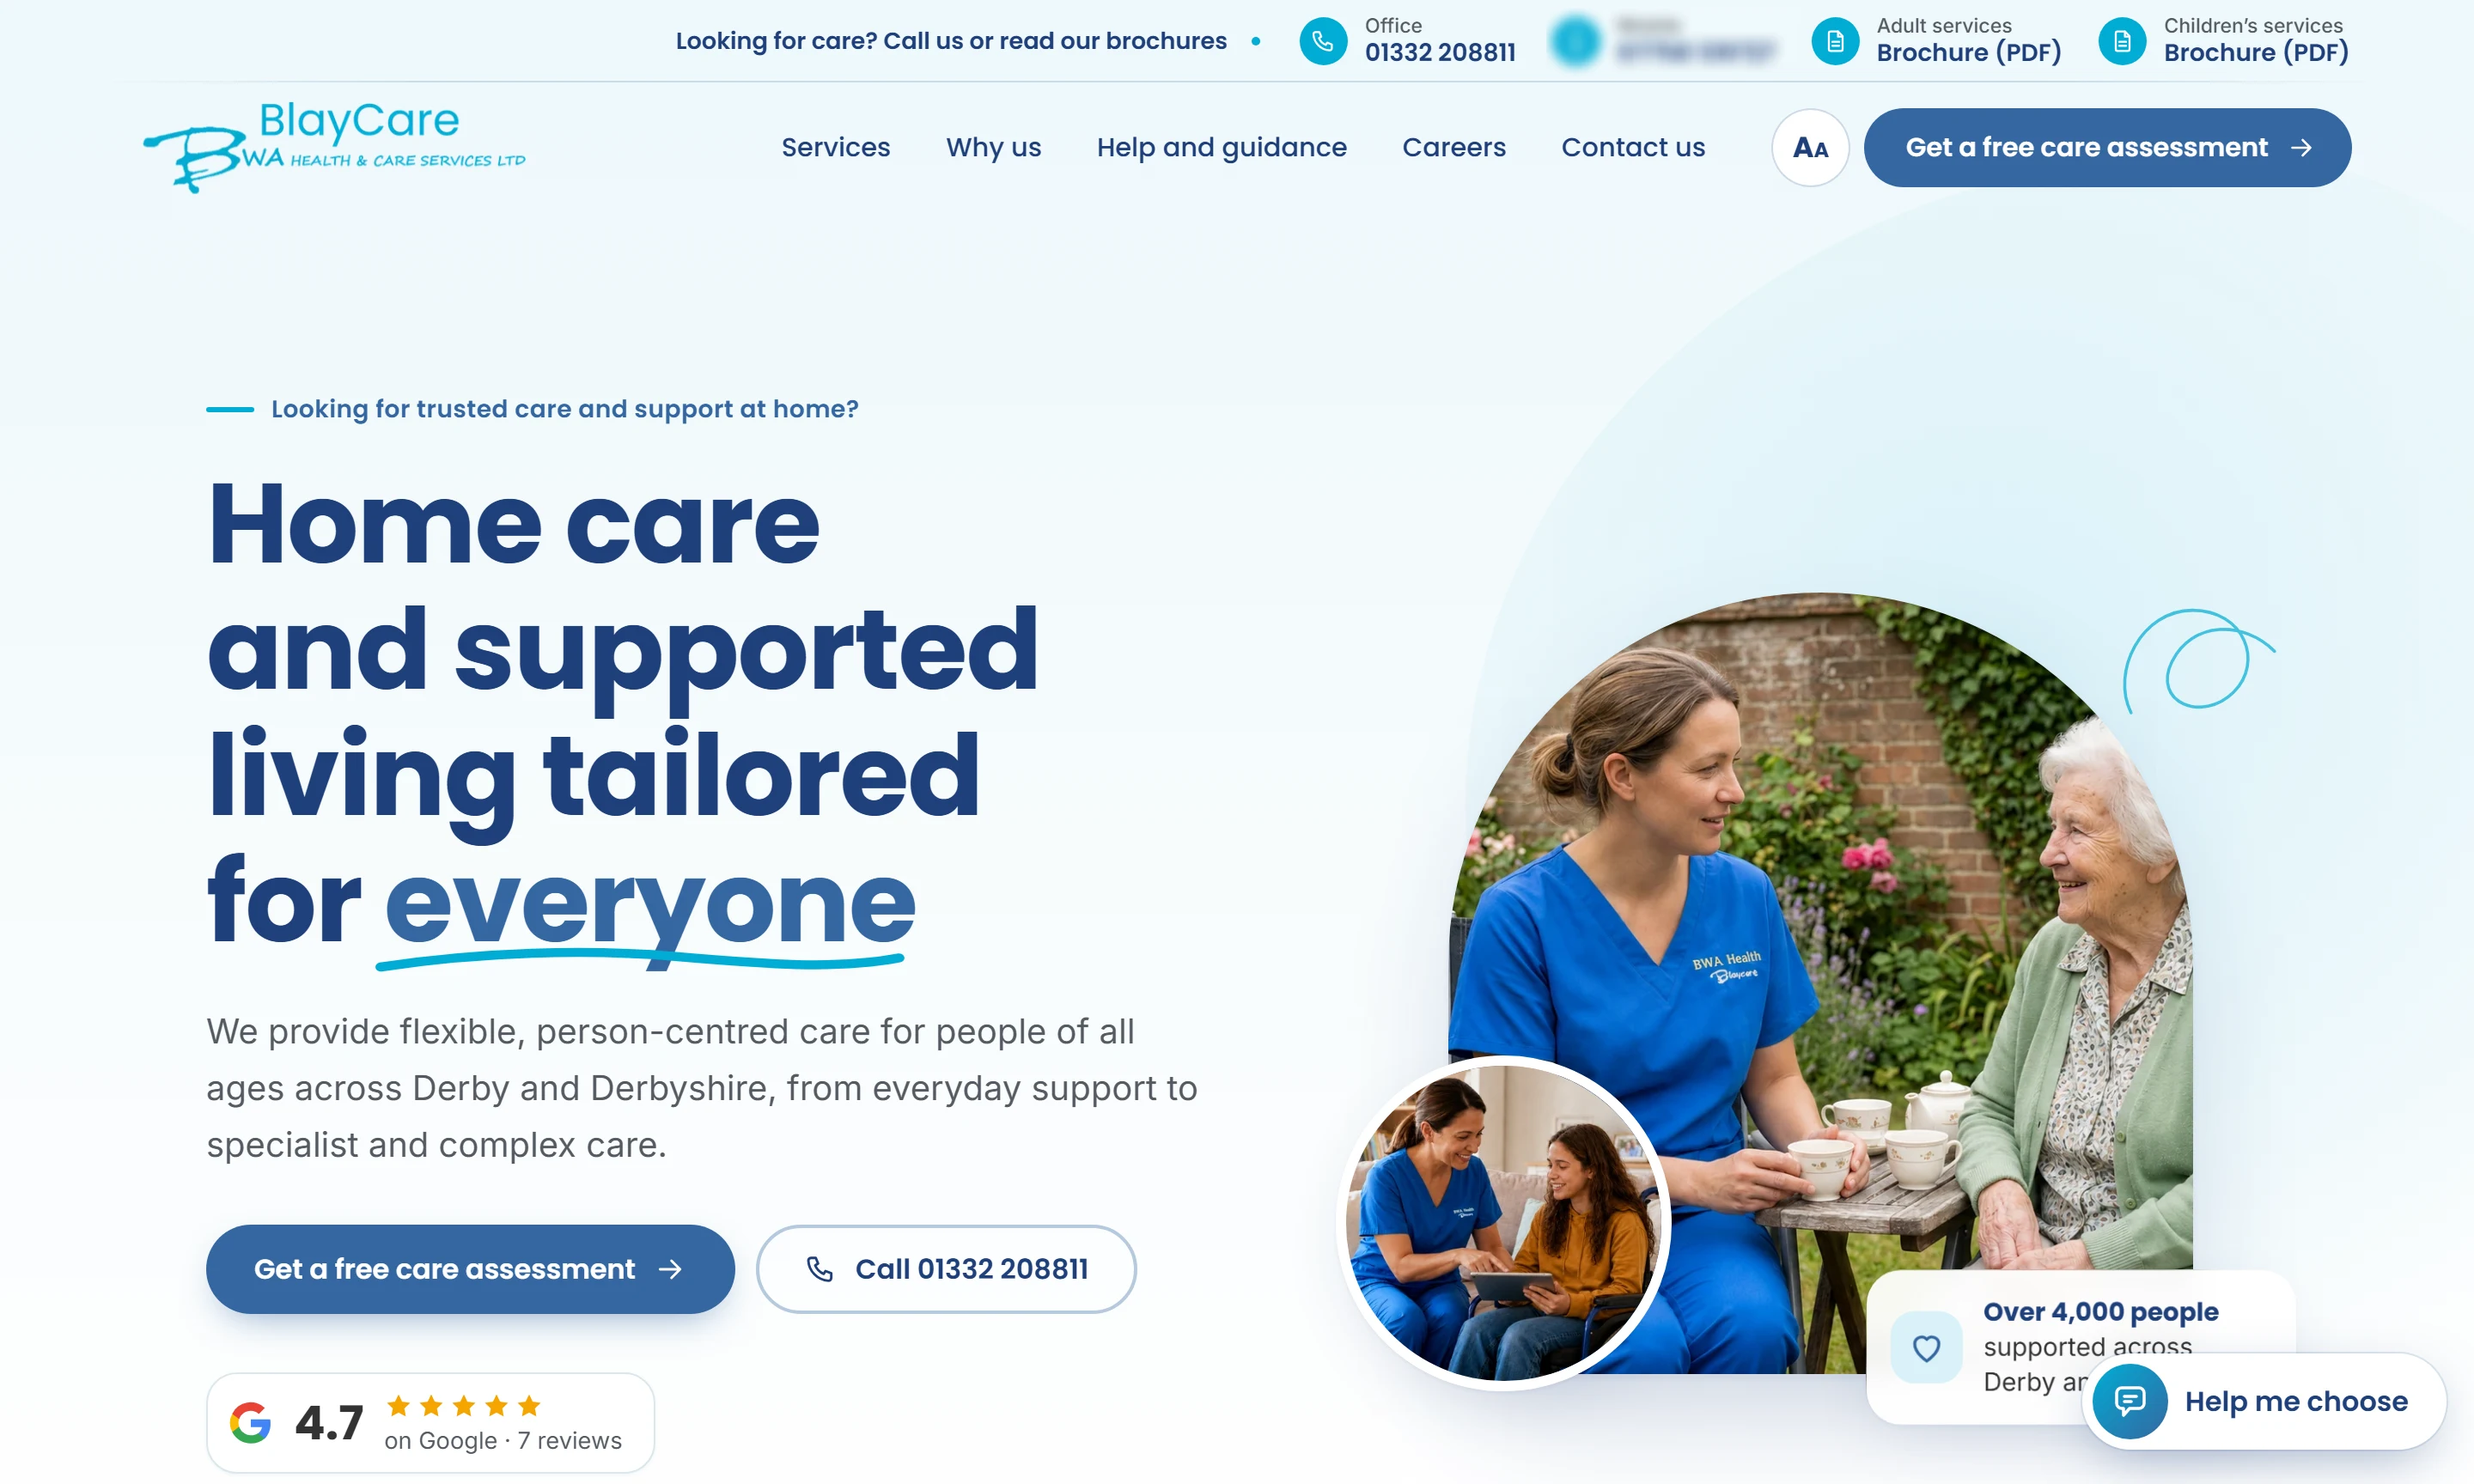
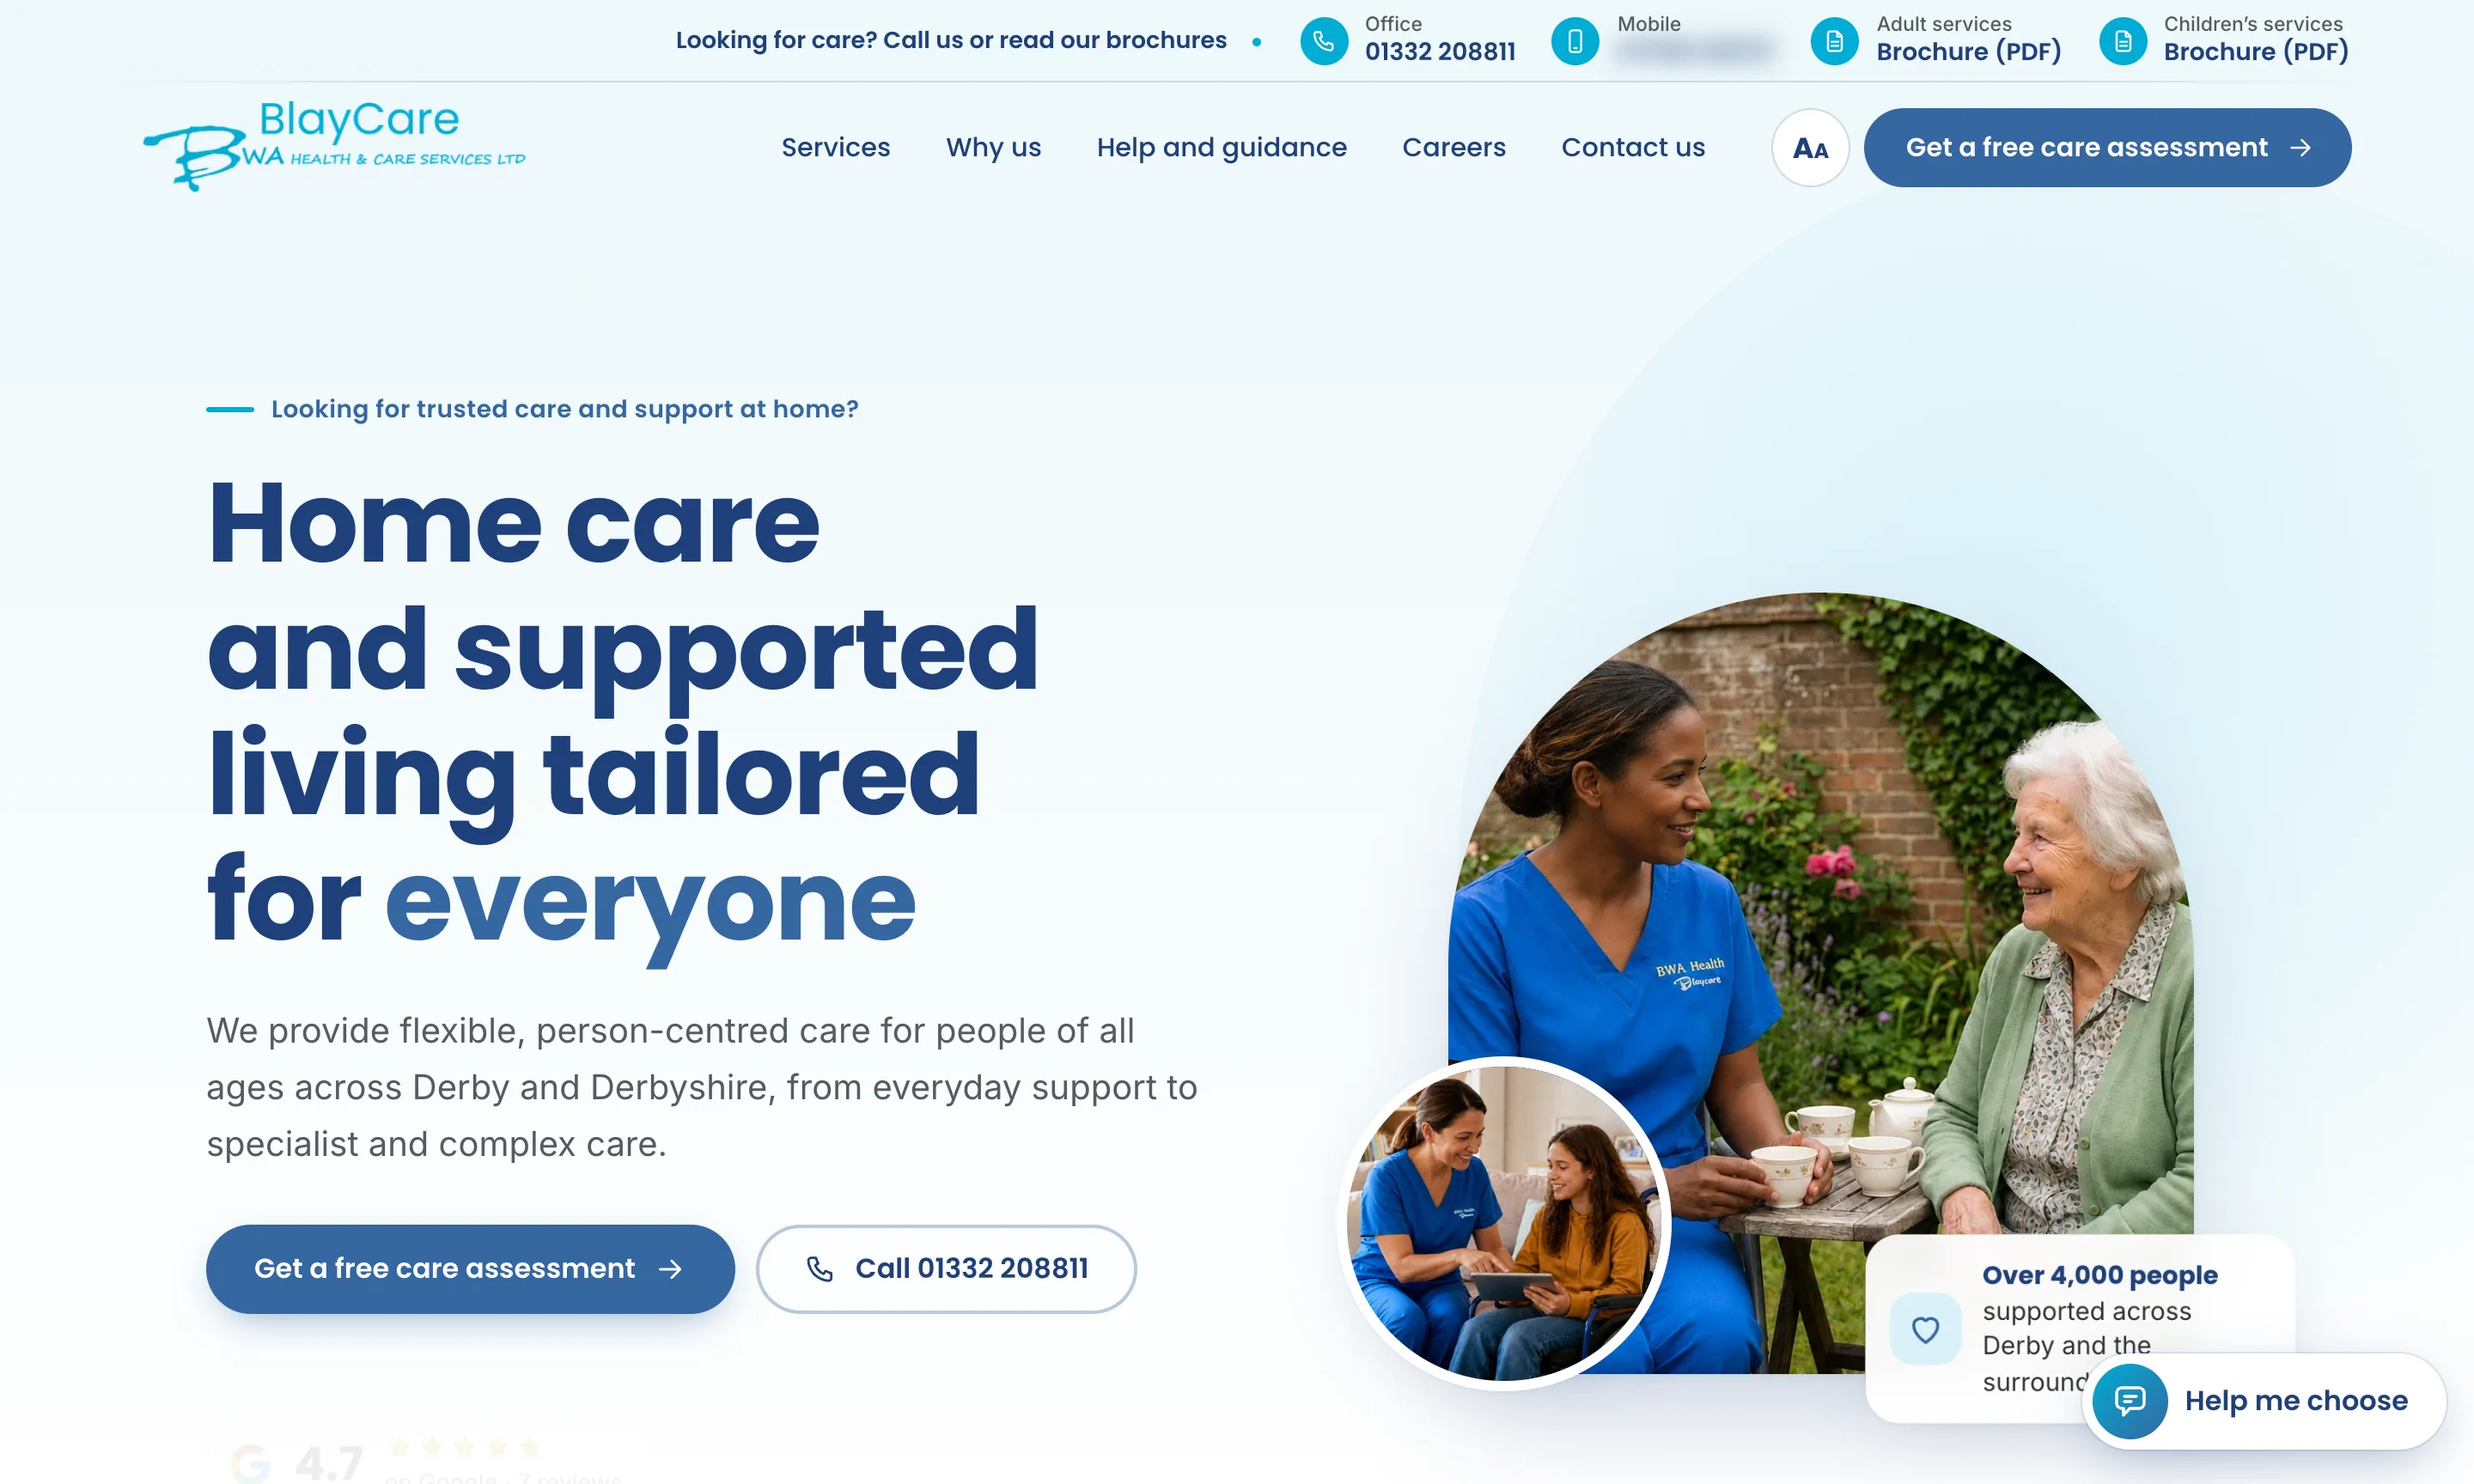
BlayCare page: new site is live, new screenshots; Hearthside summary says it's my own project

diff --git a/src/content/projects/blaycare.md b/src/content/projects/blaycare.md
@@ -3,8 +3,8 @@ title: "BlayCare website"
 label: "Marketing / Website"
 category: marketing
 icon: browser
-summary: "A rebuild of BlayCare's website in Wix Studio, with new copy, service pages, careers pages and enquiry forms. Launched 26 June 2026."
-result: "A+ in an SEOptimer audit of the site's technical and on-page basics."
+summary: "Two versions of BlayCare's website: a Wix Studio rebuild launched 26 June 2026, and the new site that replaced it in November 2026."
+result: "A+ in an SEOptimer audit of the June 2026 site's technical and on-page basics."
 resultNote: "An audit score, not a measure of enquiries or sales."
 decision: "Researched local searches and three competitors before building anything."
 stat: "A+"
@@ -12,7 +12,7 @@ statLabel: "SEOptimer audit grade"
 order: 7
 textFirst: true
 imagesTitle: "The new website on desktop"
-imagesNote: "Not live yet."
+imagesNote: "Live at www.bwahealth.com. Screenshots taken 25 November 2026."
 imagesLayout: wide
 images:
   - src: "../../assets/work/blaycare-new-site-desktop.webp"
@@ -27,6 +27,8 @@ closeups:
 ---
 
 ## Overview
+
+This page covers two versions of the website. The research, decisions and audit grade below are about the June 2026 version. The new site is at the end.
 
 I rebuilt BlayCare's website in Wix Studio. It has new copy, service pages, careers pages and enquiry forms, and it launched on 26 June 2026.
 
@@ -67,7 +69,7 @@ From the research, I recommended earlier trust signals, clearer service copy, vi
 
 ## Outcomes
 
-The SEOptimer audit grade is now A+. This is an audit score for the site's technical and on-page checks, not a measure of enquiries or sales. I have not included traffic or enquiry figures, because I do not have dated sources for them to show here.
+The SEOptimer audit grade for the June 2026 site was A+. This is an audit score for the site's technical and on-page checks, not a measure of enquiries or sales. I have not included traffic or enquiry figures, because I do not have dated sources for them to show here.
 
 ## What I learned
 
@@ -75,12 +77,15 @@ To justify creative decisions with research, audience needs and performance data
 
 I also taught myself Wix Studio techniques and landing page structure from YouTube tutorials, and applied them to this work.
 
-## The new website (in progress)
+## The new website (live November 2026)
 
-I'm now working on a new BlayCare website with my manager. It is not live yet.
+I worked on a new BlayCare website with my manager. It replaced the Wix site and is live at [www.bwahealth.com](https://www.bwahealth.com/).
 
 - **Structure and pages:** which pages exist, the menu, and the order of each page.
 - **Copy and content:** writing and editing the wording across the site.
 - **Design direction:** the look and feel, using BlayCare's brand colours and fonts.
 - **Working with my manager:** planning it together and getting feedback and sign-off on each part.
 
+**How I used AI:** the code was AI-assisted, using Claude Code. I directed and reviewed the work.
+
+The site has only just gone live, so I have no results to show for it yet.

diff --git a/src/content/projects/hearthside.md b/src/content/projects/hearthside.md
@@ -3,7 +3,7 @@ title: "Hearthside"
 label: "Practice project · not launched"
 category: marketing
 icon: browser
-summary: "A project to learn how AI can help a small business find customers. I planned a web design service for UK home care providers and built the market research, a qualified prospect list, the website, brand, posts and emails. I chose the market, niche, offer and name, and directed and reviewed all the work."
+summary: "My own project: a web design service for UK home care providers, from the market research and a qualified prospect list to the website, brand, posts and emails. I chose the market, niche, offer and name, and directed and reviewed all the work."
 order: 0
 thumb: "../../assets/work/hearthside/01-site-hero-desktop.png"
 thumbAlt: "The Hearthside landing page: the offer and price, beside a phone showing an example design for a made-up provider."
